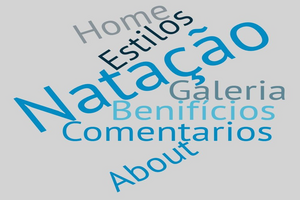
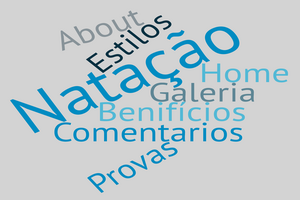
Mudei menu svg, reparei link youtube, acrescentei pagina provas

Changed region(s): [[0.03, 0.03, 0.96, 0.96]]

diff --git a/estilos.html b/estilos.html
@@ -29,6 +29,10 @@
             <span class="material-icons md-24">thumb_up</span>
             Benifícios
         </a>
+        <a href="provas.html">
+            <span class="material-icons md-24">timer</span>
+            Provas
+        </a>
         <a href="galeria.html">
             <span class="material-icons md-24">mms</span>
             Galeria
@@ -62,7 +66,7 @@
 
                     Se pretende melhorar a sua tecnica tem aqui um video especifico para isso
                 </p>
-                <iframe class="centerIframeOrSvg" width="500" height="255" style="max-width: 100%; border: 5px solid rgb(8, 70, 95);" src="https://www.youtube.com/watch?v=-UzYFyaeGEY" title="YouTube video player" frameborder="0" allow="accelerometer; autoplay; clipboard-write; encrypted-media; gyroscope; picture-in-picture" allowfullscreen></iframe>
+                <iframe class="centerIframeOrSvg" width="500" height="255" style="max-width: 100%; border: 5px solid rgb(8, 70, 95);" src="https://www.youtube.com/embed/-UzYFyaeGEY" title="YouTube video player" frameborder="0" allow="accelerometer; autoplay; clipboard-write; encrypted-media; gyroscope; picture-in-picture" allowfullscreen></iframe>
             </article>
         </section>
 
@@ -93,19 +97,22 @@
                 <polygon opacity="0.0" points="0,0 0,225 300,225 300,0" />
             </a>
             <a href="benificios.html" >
-                <polygon opacity="0.0" points="114,101 114,119 276,119 276,101" />
+                <polygon opacity="0.0" points="101,101 101,121 245,121 245,101" />
             </a>
             <a href="galeria.html">
-                <polygon opacity="0.0" points="171,79 171,101 285,101 285,79" />
+                <polygon opacity="0.0" points="151,83 102,194 254,100 254,83" />
             </a>
-            <a href="about.html">
-                <polygon opacity="0.0" points="107,171 116,194 200,152 185,139" />
+            <a href="provas.html">
+                <polygon opacity="0.0" points="86,177 103,194 178,153 169,140" />
             </a>
             <a href="estilos.html">
-                <polygon opacity="0.0" points="96,54 117,70 195,19 181,9" />
+                <polygon opacity="0.0" points="87,57 104,72 172,24 160,16" />
             </a>
             <a href="comentarios.html">
-                <polygon opacity="0.0" points="60,121 60,142 273,142 273,121" />
+                <polygon opacity="0.0" points="55,121 55,142 245,142 245,121" />
+            </a>
+            <a href="about.html">
+                <polygon opacity="0.0" points="55,29 62,48 143,24 132,8" />
             </a>
         </svg>
     </aside>

diff --git a/galeria.html b/galeria.html
@@ -29,6 +29,10 @@
             <span class="material-icons md-24">thumb_up</span>
             Benifícios
         </a>
+        <a href="provas.html">
+            <span class="material-icons md-24">timer</span>
+            Provas
+        </a>
         <a  class="active" href="galeria.html">
             <span class="material-icons md-24">mms</span>
             Galeria
@@ -53,19 +57,22 @@
                 <polygon opacity="0.0" points="0,0 0,225 300,225 300,0" />
             </a>
             <a href="benificios.html" >
-                <polygon opacity="0.0" points="114,101 114,119 276,119 276,101" />
+                <polygon opacity="0.0" points="101,101 101,121 245,121 245,101" />
             </a>
             <a href="galeria.html">
-                <polygon opacity="0.0" points="171,79 171,101 285,101 285,79" />
+                <polygon opacity="0.0" points="151,83 102,194 254,100 254,83" />
             </a>
-            <a href="about.html">
-                <polygon opacity="0.0" points="107,171 116,194 200,152 185,139" />
+            <a href="provas.html">
+                <polygon opacity="0.0" points="86,177 103,194 178,153 169,140" />
             </a>
             <a href="estilos.html">
-                <polygon opacity="0.0" points="96,54 117,70 195,19 181,9" />
+                <polygon opacity="0.0" points="87,57 104,72 172,24 160,16" />
             </a>
             <a href="comentarios.html">
-                <polygon opacity="0.0" points="60,121 60,142 273,142 273,121" />
+                <polygon opacity="0.0" points="55,121 55,142 245,142 245,121" />
+            </a>
+            <a href="about.html">
+                <polygon opacity="0.0" points="55,29 62,48 143,24 132,8" />
             </a>
         </svg>
     </aside>

diff --git a/benificios.html b/benificios.html
@@ -38,6 +38,10 @@
             <span class="material-icons md-24">thumb_up</span>
             Benifícios
         </a>
+        <a href="provas.html">
+            <span class="material-icons md-24">timer</span>
+            Provas
+        </a>
         <a href="galeria.html">
             <span class="material-icons md-24">mms</span>
             Galeria
@@ -136,19 +140,22 @@
                 <polygon opacity="0.0" points="0,0 0,225 300,225 300,0" />
             </a>
             <a href="benificios.html" >
-                <polygon opacity="0.0" points="114,101 114,119 276,119 276,101" />
+                <polygon opacity="0.0" points="101,101 101,121 245,121 245,101" />
             </a>
             <a href="galeria.html">
-                <polygon opacity="0.0" points="171,79 171,101 285,101 285,79" />
+                <polygon opacity="0.0" points="151,83 102,194 254,100 254,83" />
             </a>
-            <a href="about.html">
-                <polygon opacity="0.0" points="107,171 116,194 200,152 185,139" />
+            <a href="provas.html">
+                <polygon opacity="0.0" points="86,177 103,194 178,153 169,140" />
             </a>
             <a href="estilos.html">
-                <polygon opacity="0.0" points="96,54 117,70 195,19 181,9" />
+                <polygon opacity="0.0" points="87,57 104,72 172,24 160,16" />
             </a>
             <a href="comentarios.html">
-                <polygon opacity="0.0" points="60,121 60,142 273,142 273,121" />
+                <polygon opacity="0.0" points="55,121 55,142 245,142 245,121" />
+            </a>
+            <a href="about.html">
+                <polygon opacity="0.0" points="55,29 62,48 143,24 132,8" />
             </a>
         </svg>
     </aside>

diff --git a/about.html b/about.html
@@ -29,6 +29,10 @@
             <span class="material-icons md-24">thumb_up</span>
             Benifícios
         </a>
+        <a href="provas.html">
+            <span class="material-icons md-24">timer</span>
+            Provas
+        </a>
         <a href="galeria.html">
             <span class="material-icons md-24">mms</span>
             Galeria
@@ -53,19 +57,22 @@
                 <polygon opacity="0.0" points="0,0 0,225 300,225 300,0" />
             </a>
             <a href="benificios.html" >
-                <polygon opacity="0.0" points="114,101 114,119 276,119 276,101" />
+                <polygon opacity="0.0" points="101,101 101,121 245,121 245,101" />
             </a>
             <a href="galeria.html">
-                <polygon opacity="0.0" points="171,79 171,101 285,101 285,79" />
+                <polygon opacity="0.0" points="151,83 102,194 254,100 254,83" />
             </a>
-            <a href="about.html">
-                <polygon opacity="0.0" points="107,171 116,194 200,152 185,139" />
+            <a href="provas.html">
+                <polygon opacity="0.0" points="86,177 103,194 178,153 169,140" />
             </a>
             <a href="estilos.html">
-                <polygon opacity="0.0" points="96,54 117,70 195,19 181,9" />
+                <polygon opacity="0.0" points="87,57 104,72 172,24 160,16" />
             </a>
             <a href="comentarios.html">
-                <polygon opacity="0.0" points="60,121 60,142 273,142 273,121" />
+                <polygon opacity="0.0" points="55,121 55,142 245,142 245,121" />
+            </a>
+            <a href="about.html">
+                <polygon opacity="0.0" points="55,29 62,48 143,24 132,8" />
             </a>
         </svg>
     </aside>

diff --git a/index.html b/index.html
@@ -29,6 +29,10 @@
             <span class="material-icons md-24">thumb_up</span>
             Benifícios
         </a>
+        <a href="provas.html">
+            <span class="material-icons md-24">timer</span>
+            Provas
+        </a>
         <a href="galeria.html">
             <span class="material-icons md-24">mms</span>
             Galeria
@@ -53,19 +57,22 @@
                 <polygon opacity="0.0" points="0,0 0,225 300,225 300,0" />
             </a>
             <a href="benificios.html" >
-                <polygon opacity="0.0" points="114,101 114,119 276,119 276,101" />
+                <polygon opacity="0.0" points="101,101 101,121 245,121 245,101" />
             </a>
             <a href="galeria.html">
-                <polygon opacity="0.0" points="171,79 171,101 285,101 285,79" />
+                <polygon opacity="0.0" points="151,83 102,194 254,100 254,83" />
             </a>
-            <a href="about.html">
-                <polygon opacity="0.0" points="107,171 116,194 200,152 185,139" />
+            <a href="provas.html">
+                <polygon opacity="0.0" points="86,177 103,194 178,153 169,140" />
             </a>
             <a href="estilos.html">
-                <polygon opacity="0.0" points="96,54 117,70 195,19 181,9" />
+                <polygon opacity="0.0" points="87,57 104,72 172,24 160,16" />
             </a>
             <a href="comentarios.html">
-                <polygon opacity="0.0" points="60,121 60,142 273,142 273,121" />
+                <polygon opacity="0.0" points="55,121 55,142 245,142 245,121" />
+            </a>
+            <a href="about.html">
+                <polygon opacity="0.0" points="55,29 62,48 143,24 132,8" />
             </a>
         </svg>
     </aside>

diff --git a/provas.html b/provas.html
@@ -7,9 +7,9 @@
     <meta name="desciption" content="Introdução a Natação">
     <link rel="stylesheet" href="styles.css">
     <link rel="stylesheet" href="https://fonts.googleapis.com/icon?family=Material+Icons">
+    <link rel="shortcut icon" type="image/x-icon" href="images/favicon.ico"/>
     <link rel="preconnect" href="https://fonts.gstatic.com">
     <link href="https://fonts.googleapis.com/css2?family=New+Tegomin&display=swap" rel="stylesheet"> 
-    <link rel="shortcut icon" type="image/x-icon" href="images/favicon.ico"/>
     <title>Natação</title>
 </head>
 <body>
@@ -29,7 +29,7 @@
             <span class="material-icons md-24">thumb_up</span>
             Benifícios
         </a>
-        <a href="provas.html">
+        <a class="active" href="provas.html">
             <span class="material-icons md-24">timer</span>
             Provas
         </a>
@@ -37,7 +37,7 @@
             <span class="material-icons md-24">mms</span>
             Galeria
         </a>
-        <a class="active" href="comentarios.html">
+        <a href="comentarios.html">
             <span class="material-icons md-24">feedback</span>
             Comentarios
         </a>
